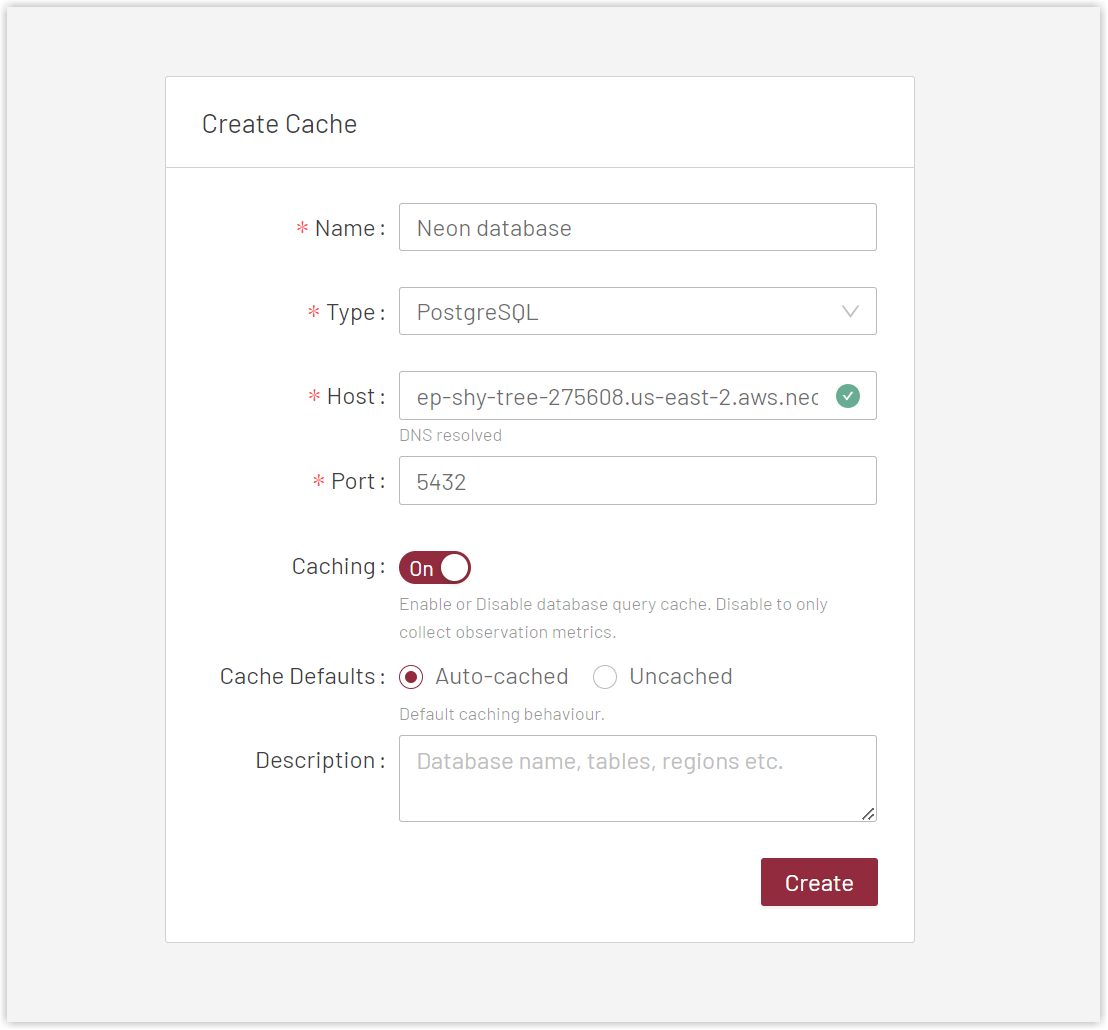
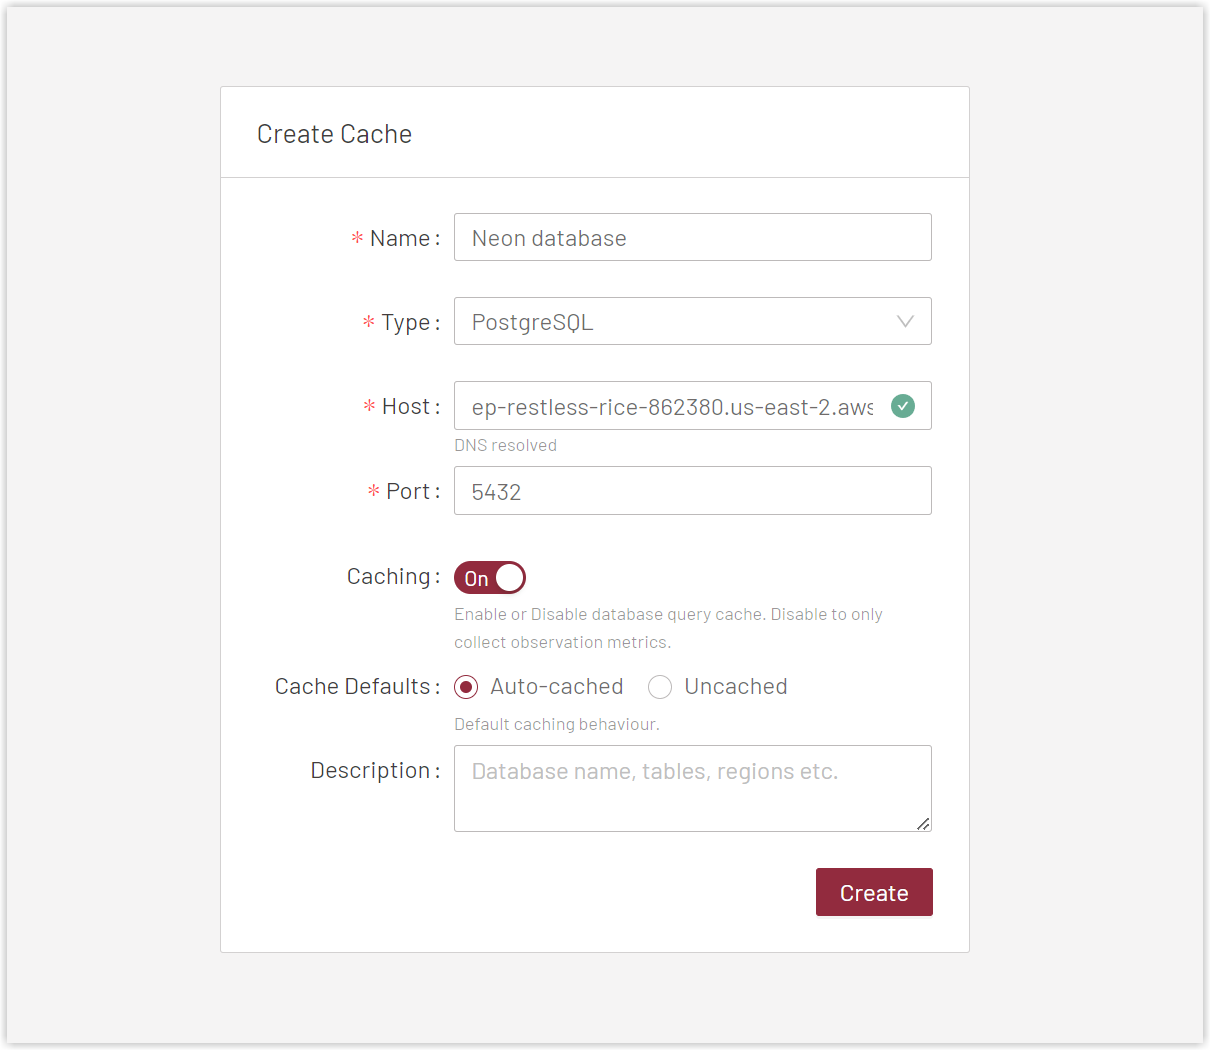
Revise connection string. Update connection string details in topics that use the same connection details screen capture.

diff --git a/content/docs/guides/vercel-manual.md b/content/docs/guides/vercel-manual.md
@@ -20,18 +20,18 @@ Alternatively, you can connect using the [Neon Vercel Integration](https://verce
 
 You can gather most of these details from the **Connection Details** widget on the **Neon Dashboard**. Select a branch, a role, and the database you want to connect to. A connection string is constructed for you.
 
-![Connection details widget](/docs/connect/connection_details.png)
+![Connection details widget](/docs/guides/connection_details.png)
 
 The connection string includes the role name, hostname, and database name. For example:
 
 ```text
-postgres://sally:<password>@ep-cold-poetry-404091.us-east-2.aws.neon.tech/neondb
-             ^                              ^                                ^
-             |- <role name>                 |- <hostname>                    |- <database name>
+postgres://daniel:<password>@ep-restless-rice-862380.us-east-2.aws.neon.tech/neondb
+             ^                             ^                                   ^
+             |- <role name>                |- <hostname>                       |- <database name>
 ```
 
-- role name: `sally`
-- hostname: `ep-cold-poetry-404091.us-east-2.aws.neon.tech`
+- role name: `daniel`
+- hostname: `ep-restless-rice-862380.us-east-2.aws.neon.tech`
 - database name: `neondb`
 
 The password is only included in the connection string when the project is first created or after resetting a the password. If you misplaced your password, you can reset it by selecting the **Reset Password** link on the **Connection Details** widget or by navigating to the **Roles** page.
@@ -41,14 +41,14 @@ The password is only included in the connection string when the project is first
 The environment variables required to connect your application to Neon depend on your application. Some applications use a `DATABASE_URL` environment variable with a database connection string:
 
 ```text
-DATABASE_URL="sally:<password>@ep-cold-poetry-404091.us-east-2.aws.neon.tech/neondb"
+DATABASE_URL="daniel:<password>@ep-restless-rice-862380.us-east-2.aws.neon.tech/neondb"
 ```
 
 Other applications may use `PG*` environment variables to define database connection details:
 
 ```text
-PGHOST=ep-cold-poetry-404091.us-east-2.aws.neon.tech
-PGUSER=sally
+PGHOST=ep-restless-rice-862380.us-east-2.aws.neon.tech
+PGUSER=daniel
 PGDATABASE=neondb
 PGPASSWORD=<password>
 PGPORT=5432

diff --git a/content/docs/guides/polyscale.md b/content/docs/guides/polyscale.md
@@ -20,7 +20,7 @@ The connection string includes the user name, password, hostname, and database n
 Copy the hostname. In the example above, the hostname is this part of the connection string:
 
 ```text
- ep-shy-tree-275608.us-east-2.aws.neon.tech
+ ep-restless-rice-862380.us-east-2.aws.neon.tech
  ```
 
 Also, make note of the user, password, and database name. You will need those details when you configure a connection from your  application to Polyscale.
